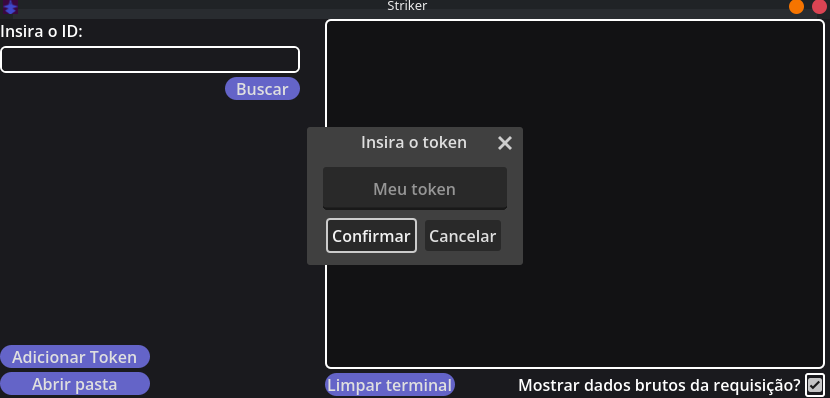
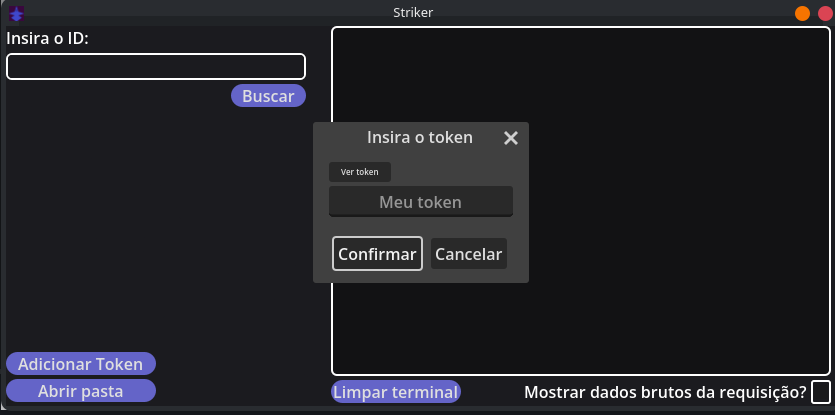
Correções para o README.md

Changed region(s): [[0.0, 0.0, 1.0, 1.0], [0.0, 0.8442, 0.2108, 0.995]]

diff --git a/README.md b/README.md
@@ -1,6 +1,6 @@
 # Striker
 
-Um aplicativo que extrai banners e avatares do discord.
+Um aplicativo que obtém links de banners e avatares do Discord.
 
 ![Logo](logo.png)
 
@@ -12,37 +12,38 @@ Um aplicativo que extrai banners e avatares do discord.
 
 - Muito cuidado ao acessar o avatar/banner de alguém, não recomendamos o fazer sem o consentimento dessa pessoa.
 - O Striker usa apenas rotas públicas da API e recursos oficiais oferecidos para desenvolvedores.
-- O Striker tem o objetivo de ser um app de uso pessoal, portanto não apoia atitudes que visam o abuso do serviços do discord.
+- O Striker tem o objetivo de ser um app de uso pessoal, portanto não apoia atitudes que visam o abuso do serviços do Discord.
 -  **O Striker de NENHUMA forma está ligado a Discord Inc, e NÃO é endossado por tal!**
 
- 
 # Como usar?
 
 #### Primeiro você precisa obter um token do discord.
+
 - Você pode obter um em:
     https://discord.com/developers/applications/
 
 ![Discord Applications](img/discord-applications.png)
 
-- Faça login com sua e após criar um bot, clique nele vá na aba 'BOT';
-- Lá você poderá gerar um novo, clicando em "Redefinir Token"
+- Faça login com sua conta e clique em "Novo aplicativo".
+- Após criar um bot, clique nele vá na aba 'BOT'.
+- Lá você poderá gerar um novo token, clicando em "Redefinir Token"
 
 ![Discord Bot Tab](img/discord-bot-tab.png)
 
-
-#### Adicione-o no Striker
-- Clique em "Adicionar Token', no popup que abrir insira-o e clique em 'Confirmar'.
+#### Adicione-o ao Striker
+- Clique em "Adicionar Token", no popup que abrir, insira-o e clique em 'Confirmar'.
 
 ![Striker TokenUI](img/striker-token-ui.png)
 
-###### **Atenção, cuide do seu token!** ⚠
+#### **Atenção, cuide do seu token!** ⚠
 - Nunca use o token da sua própria conta.
-- Nunca compartilhe o token gerado no portal do discord com nínguem.
-- Não use o token de um bot seu já em uso, crie um somente para o striker.
-- O striker não coleta e nem compartilha seu token, ele é armazenado exclusivamente no seu computador.
+- Nunca compartilhe o token gerado no portal do Discord com ninguém.
+- Não use o token de um bot seu já em uso, crie um somente para o Striker.
+- O Striker não coleta e nem compartilha seu token, ele é armazenado exclusivamente no seu computador.
 
 #### Após isso, você precisa ativar o modo de desenvolvedor no app do discord para a coleta dos IDs.
-- Você pode fazer isso seguindo os passos para cada versão:
+
+- Você pode fazer isso seguindo os passos para cada versão do Discord:
 
     - Desktop: Configurações -> Desenvolvedor -> Modo Desenvolvedor ✅
 
@@ -52,16 +53,17 @@ Um aplicativo que extrai banners e avatares do discord.
     
     ![DevMode Mobile](img/devmode-mobile.jpeg)
     
-- Você pode copiar o ID de um usuário seguindo os passos para cada versão:
+- Você pode copiar o ID de um usuário seguindo os passos para cada versão do Discord:
 
-    - Desktop: Clique no perfil do usuário em questão com o botão direito do mouse e clique em 'Copiar ID do usuário'
+    - Desktop: Clique no mini perfil do usuário em questão com o botão direito do mouse e clique em 'Copiar ID do usuário'
 
     - Mobile: Abra o perfil do usuário em questão vá aos 3 pontos no canto e clique em 'Copiar ID do usuário"
 
     ![Copy User ID](img/copy-user-id.png)
 
 #### Pronto!
-- Com o token configurado você pode ver e baixar o avatar de usuários adicionando o ID no campo "Isira o ID" e clicando em buscar.
+- Com o token configurado você pode obter e abrir o link dos avatares e banners no navegador, clicando com o botão esquerdo do mouse em cima do link no console após a busca. 
+- Basta adicionar o ID no campo "Isira o ID" e clicar em "Buscar".
 
 ![Striker UI](img/striker-ui.png)
 
